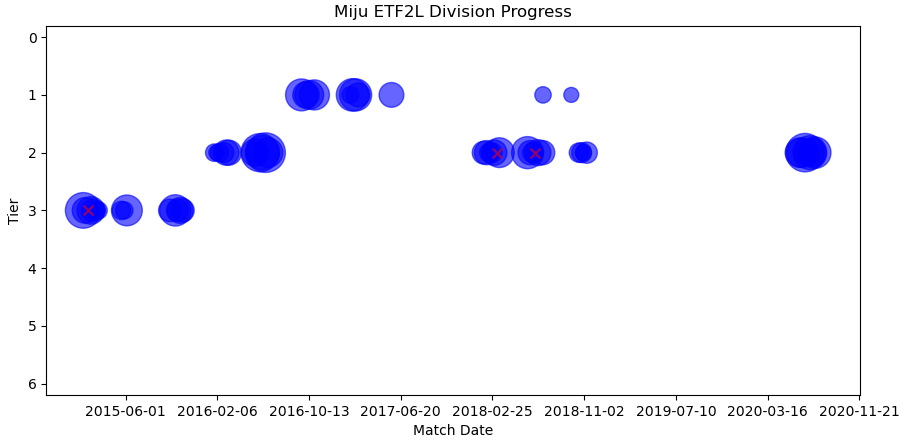
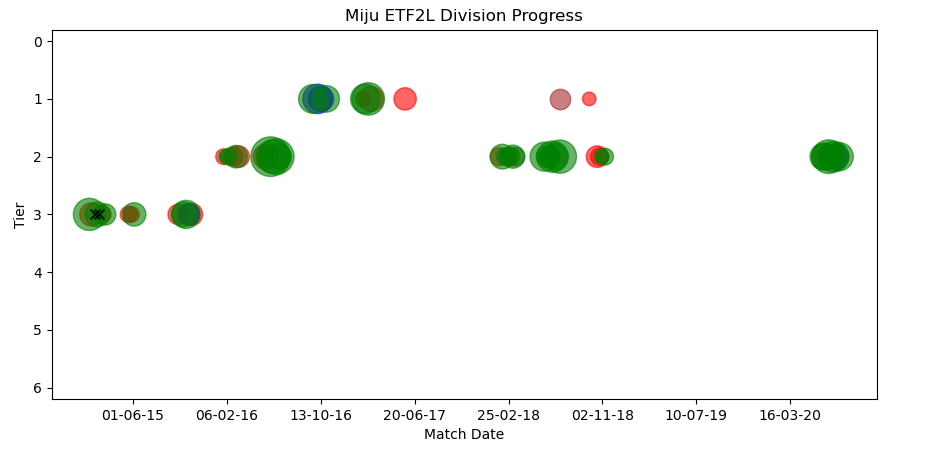
New progress graph

diff --git a/src/ETF2L_Stats.py b/src/ETF2L_Stats.py
@@ -88,29 +88,31 @@ class CanvasPanel(wx.Panel):
         # Plot the graph
         self.ax.clear()
 
+        # Matches won
+        self.ax.scatter(progressData['time'][(progressData['impact'] > 0) & (progressData['result'] == "v")],
+                        progressData['div'][(progressData['impact'] > 0) & (progressData['result'] == "v")],
+                        s=progressData['impact'][(progressData['impact'] > 0) & (progressData['result'] == "v")]
+                        , alpha=0.3, marker='o', c="Green")
+
         # Matches Lost
         self.ax.scatter(progressData['time'][(progressData['impact'] > 0) & (progressData['result'] == "l")],
                         progressData['div'][(progressData['impact'] > 0) & (progressData['result'] == "l")],
                         s=progressData['impact'][(progressData['impact'] > 0) & (progressData['result'] == "l")]
-                        , alpha=0.6, marker='o', c="Red")
+                        , alpha=0.3, marker='o', c="Red")
 
         # Matches drawn
         self.ax.scatter(progressData['time'][(progressData['impact'] > 0) & (progressData['result'] == "d")],
                         progressData['div'][(progressData['impact'] > 0) & (progressData['result'] == "d")],
                         s=progressData['impact'][(progressData['impact'] > 0) & (progressData['result'] == "d")]
-                        , alpha=0.6, marker='o', c="Blue")
+                        , alpha=0.3, marker='o', c="Blue")
 
         # Matches merced
         self.ax.scatter(progressData['time'][(progressData['impact'] > 0) & (progressData['result'] == "merc")],
                         progressData['div'][(progressData['impact'] > 0) & (progressData['result'] == "merc")],
                         s=progressData['impact'][(progressData['impact'] > 0) & (progressData['result'] == "merc")]
-                        , alpha=0.6, marker='o', c="Brown")
+                        , alpha=0.3, marker='o', c="Brown")
 
-        # Matches won
-        self.ax.scatter(progressData['time'][(progressData['impact'] > 0) & (progressData['result'] == "v")],
-                        progressData['div'][(progressData['impact'] > 0) & (progressData['result'] == "v")],
-                        s=progressData['impact'][(progressData['impact'] > 0) & (progressData['result'] == "v")]
-                        , alpha=0.6, marker='o', c="Green")
+
 
         # Black cross for matches with no logs found
         self.ax.scatter(progressData['time'][progressData['impact'] == 0],

diff --git a/src/log_processer.py b/src/log_processer.py
@@ -107,7 +107,7 @@ def gameImpact(player, fullLog, calculateScore = True):
         #     playerTeam = GameTeam.BLU
         
         # Get some provided stats, for some reason ka/d is a string
-        # TODO Make this a function for the repeatable retrievals
+        # TODO Make a function for the repeatable retrievals
         matchStats['mainClass'].append(mainClass(steamID, log))
         matchStats['dpm'].append(log['players'][steamID]['dapm'])
         matchStats['kad'].append(float(log['players'][steamID]['kapd']))
